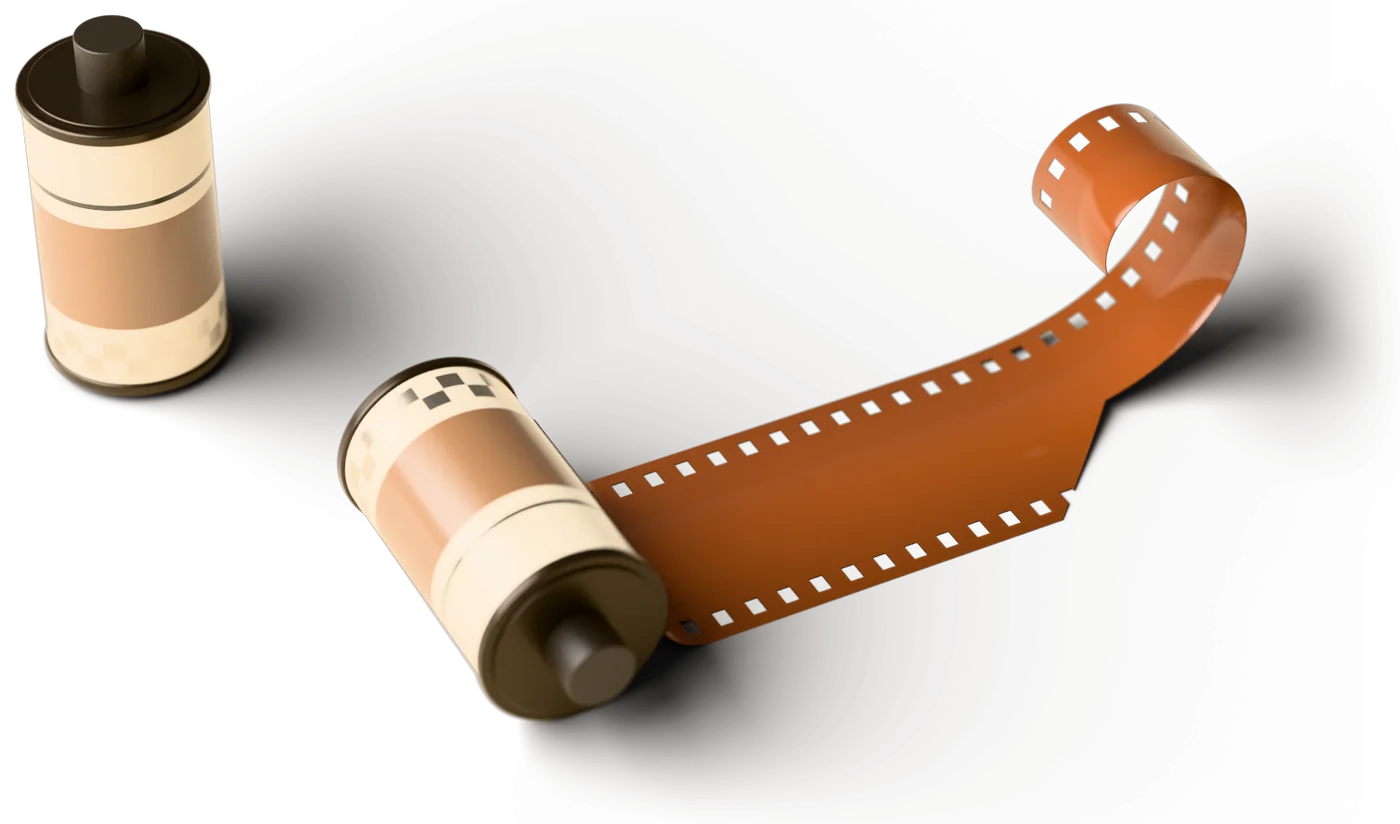
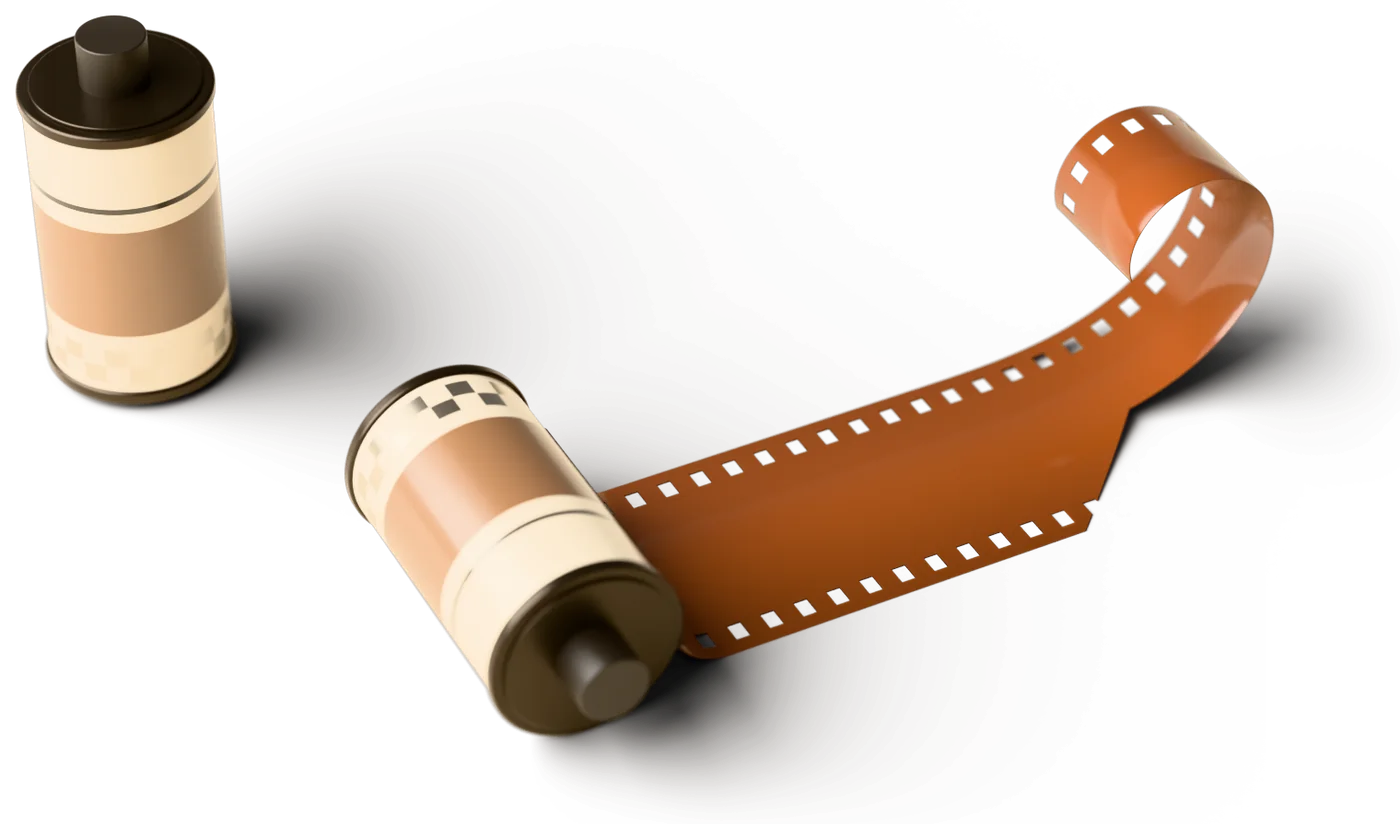
fix: rytm galerii, hero na tabletach i lżejszy cień renderu
Podpisy kadrów w dwóch liniach zamiast ciasnych par, notka z Instagramem
domyka najkrótszą kolumnę, podpisy nie wychodzą poza ekran przy 768 px.
Hero na tablecie w dwóch kolumnach, na 1024 px szerszy kadr.
Render: najsłabsza okluzja znika, krawędzie wygaszone szerzej.

diff --git a/src/components/Gallery.tsx b/src/components/Gallery.tsx
@@ -5,7 +5,7 @@ import { AnimatePresence, motion, useReducedMotion } from "framer-motion";
 import { useCallback, useEffect, useMemo, useRef, useState, useSyncExternalStore } from "react";
 import SectionHead from "@/components/SectionHead";
 import Lightbox from "@/components/Lightbox";
-import { categories, photos, type Category, type Photo } from "@/data/content";
+import { categories, photos, site, type Category, type Photo } from "@/data/content";
 
 type Filter = Category | "all";
 
@@ -30,7 +30,7 @@ function useColumns() {
 }
 
 /* ---------- masonry: każdy kadr trafia do najkrótszej kolumny, kolejność czytania zostaje ---------- */
-const CAPTION = 0.11; // wysokość podpisu w jednostkach szerokości kolumny
+const CAPTION = 0.15; // wysokość podpisu w jednostkach szerokości kolumny
 const MIDDLE_OFFSET = 0.2; // środkowa kolumna startuje niżej, jak przesunięta szpalta
 
 function distribute(list: Photo[], cols: number) {
@@ -41,7 +41,10 @@ function distribute(list: Photo[], cols: number) {
     columns[target].push({ photo, index });
     heights[target] += photo.src.height / photo.src.width + CAPTION;
   });
-  return columns;
+  // najkrótsza kolumna dostaje notkę na końcu, jeśli zostaje w niej wyraźna dziura
+  const shortest = heights.indexOf(Math.min(...heights));
+  const gap = Math.max(...heights) - heights[shortest];
+  return { columns, noteIn: cols > 1 && gap > 0.35 ? shortest : -1 };
 }
 
 export default function Gallery() {
@@ -55,7 +58,7 @@ export default function Gallery() {
     () => (filter === "all" ? photos : photos.filter((p) => p.category === filter)),
     [filter],
   );
-  const columns = useMemo(() => distribute(visible, cols), [visible, cols]);
+  const { columns, noteIn } = useMemo(() => distribute(visible, cols), [visible, cols]);
 
   const counts = useMemo(() => {
     const c: Record<Filter, number> = { all: photos.length, slub: 0, portret: 0, rodzina: 0 };
@@ -182,20 +185,34 @@ export default function Gallery() {
                         className="h-auto w-full transition-transform duration-[900ms] ease-[var(--ease-editorial)] motion-safe:group-hover:scale-[1.035]"
                       />
                     </div>
-                    <span className="mt-3 grid grid-cols-[auto_1fr] items-baseline gap-x-3 gap-y-1 sm:flex sm:justify-between sm:gap-4">
+                    <span className="mt-3 grid grid-cols-[2.25rem_1fr] items-baseline gap-y-1">
                       <span className="caps tabular text-sepia">
                         {String(photo.nr).padStart(3, "0")}
                       </span>
-                      <span className="font-serif text-[1.0625rem] italic leading-snug sm:mr-auto">
+                      <span className="font-serif text-[1.0625rem] italic leading-snug">
                         {photo.title}
                       </span>
-                      <span className="caps col-start-2 text-ink-soft sm:shrink-0 sm:text-right">
-                        {photo.place}
-                      </span>
+                      <span className="caps col-start-2 text-ink-soft">{photo.place}</span>
                     </span>
                   </button>
                 </div>
               ))}
+              {ci === noteIn && (
+                <aside className="border-t border-ink pt-4">
+                  <p className="caps text-sepia">Ciąg dalszy</p>
+                  <p className="mt-3 font-serif text-2xl italic leading-snug">
+                    Więcej kadrów i całe historie pokazuję na Instagramie.
+                  </p>
+                  <a
+                    href={site.instagramUrl}
+                    target="_blank"
+                    rel="noopener noreferrer"
+                    className="caps mt-4 inline-flex min-h-11 items-center"
+                  >
+                    <span className="link-line">@{site.instagram}</span>
+                  </a>
+                </aside>
+              )}
             </div>
           ))}
         </motion.div>

diff --git a/src/components/Hero.tsx b/src/components/Hero.tsx
@@ -19,9 +19,9 @@ export default function Hero() {
         ślub · portret · rodzina · {site.city}
       </p>
 
-      <div className="grid gap-y-10 lg:grid-cols-12 lg:grid-rows-[auto_1fr_auto] lg:gap-x-8 lg:gap-y-12">
+      <div className="grid gap-y-10 md:grid-cols-12 md:gap-x-8 lg:grid-rows-[auto_1fr_auto] lg:gap-y-12">
         {/* Tytuł */}
-        <div className="lg:col-span-7 lg:row-start-2 lg:self-end">
+        <div className="md:col-span-12 md:row-start-1 lg:col-span-6 lg:row-start-2 lg:self-end xl:col-span-7">
           <Reveal>
             <p className="caps text-sepia">Nº 1 · fotografia, która zostaje</p>
           </Reveal>
@@ -29,13 +29,13 @@ export default function Hero() {
         </div>
 
         {/* Kadr w łuku */}
-        <div className="lg:col-span-5 lg:col-start-8 lg:row-span-3 lg:row-start-1">
+        <div className="md:col-span-6 md:col-start-7 md:row-span-2 md:row-start-2 lg:row-span-3 lg:row-start-1 xl:col-span-5 xl:col-start-8">
           <Reveal delay={0.1}>
             <figure>
               <ParallaxImage
                 src={heroImage}
                 alt="Bukiet panny młodej z białymi tulipanami i paprocią na tle ciemnego garnituru, pod światło"
-                sizes="(max-width: 1024px) 92vw, 40vw"
+                sizes="(max-width: 768px) 92vw, (max-width: 1280px) 48vw, 40vw"
                 preload
                 develop
                 drift={40}
@@ -50,7 +50,7 @@ export default function Hero() {
         </div>
 
         {/* Wstęp i wezwania */}
-        <div className="lg:col-span-6 lg:row-start-3">
+        <div className="md:col-span-6 md:row-start-2 md:self-end lg:row-start-3">
           <Reveal delay={0.35}>
             <p className="max-w-md text-lg leading-relaxed text-ink-soft sm:text-xl sm:leading-relaxed">
               Reportaże ślubne i portrety pisane światłem. Bez pozowania,
@@ -70,7 +70,7 @@ export default function Hero() {
         {/* Spis treści numeru: skróty do kategorii galerii */}
         <nav
           aria-label="W tym numerze"
-          className="lg:col-span-6 lg:row-start-1 lg:self-start"
+          className="md:col-span-6 md:row-start-3 md:self-end lg:row-start-1 lg:self-start"
         >
           <Reveal delay={0.2}>
             <p className="caps text-ink-soft">W tym numerze</p>
@@ -81,13 +81,13 @@ export default function Hero() {
                   <li key={c.id} className="border-b border-line">
                     <a
                       href={`#${c.anchor}`}
-                      className="group grid min-h-12 grid-cols-[2rem_1fr_auto] items-baseline gap-x-3 py-2.5 sm:grid-cols-[2.5rem_auto_1fr_auto]"
+                      className="group grid min-h-12 grid-cols-[2rem_1fr_auto] items-baseline gap-x-3 py-2.5 lg:grid-cols-[2.5rem_auto_1fr_auto]"
                     >
                       <span className="caps tabular text-sepia">0{i + 1}</span>
                       <span className="font-serif text-xl transition-transform duration-500 ease-[var(--ease-editorial)] group-hover:translate-x-1 sm:text-2xl">
                         {c.label}
                       </span>
-                      <span className="hidden font-serif italic text-ink-soft sm:block">
+                      <span className="hidden font-serif italic text-ink-soft lg:block">
                         {c.note}
                       </span>
                       <span className="caps tabular text-ink-soft">
